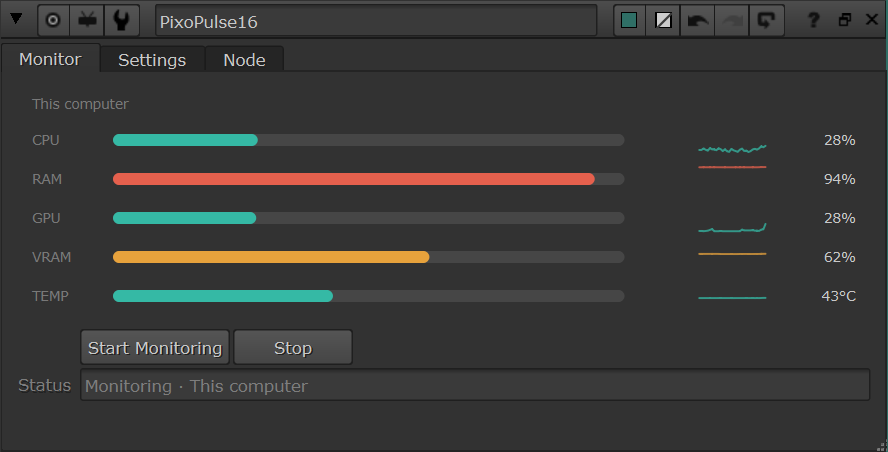
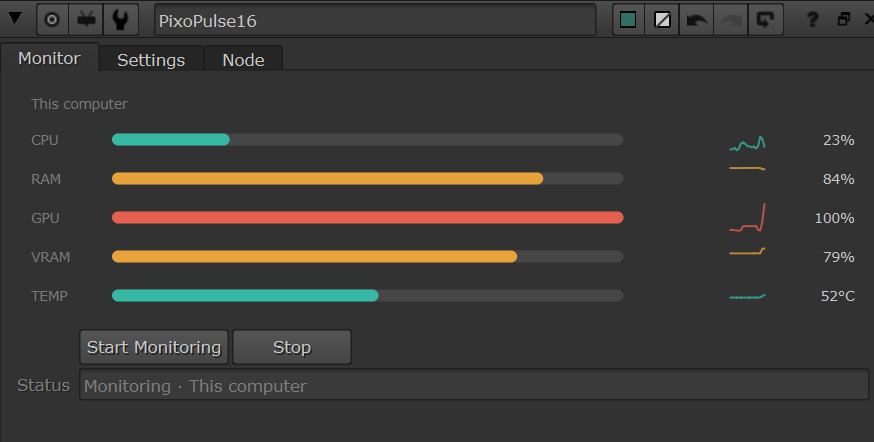
Show Timer and Pulse during a real render in the README

diff --git a/README.md b/README.md
@@ -48,7 +48,7 @@ Requires Nuke with Python 3 (developed against Nuke 16). The meters use PySide, 
 
 ## Pixo Timer
 
-![Pixo Timer panel in Nuke showing the ComfyUI URL, Status, Last run and Session](docs/images/timer.png)
+![Pixo Timer panel in Nuke timing a ComfyUI run in progress](docs/images/timer.png)
 
 1. Create the node and check **ComfyUI URL** (default `http://127.0.0.1:8188`).
 2. Click **Start Watching**. Click **Stop** to end it.
@@ -67,7 +67,7 @@ How the timing works:
 
 ## Pixo Pulse
 
-![Pixo Pulse Monitor tab in Nuke with CPU, RAM, GPU, VRAM and temperature meters and their history](docs/images/pulse.png)
+![Pixo Pulse Monitor tab in Nuke during a render, with CPU, RAM, GPU, VRAM and temperature meters and their history](docs/images/pulse.png)
 
 1. Create the node, open the **Monitor** tab, and click **Start Monitoring**. Click **Stop** to end it.
 2. The node's label in the Node Graph shows a short readout such as `CPU 31 · GPU 17 · RAM 75`.
